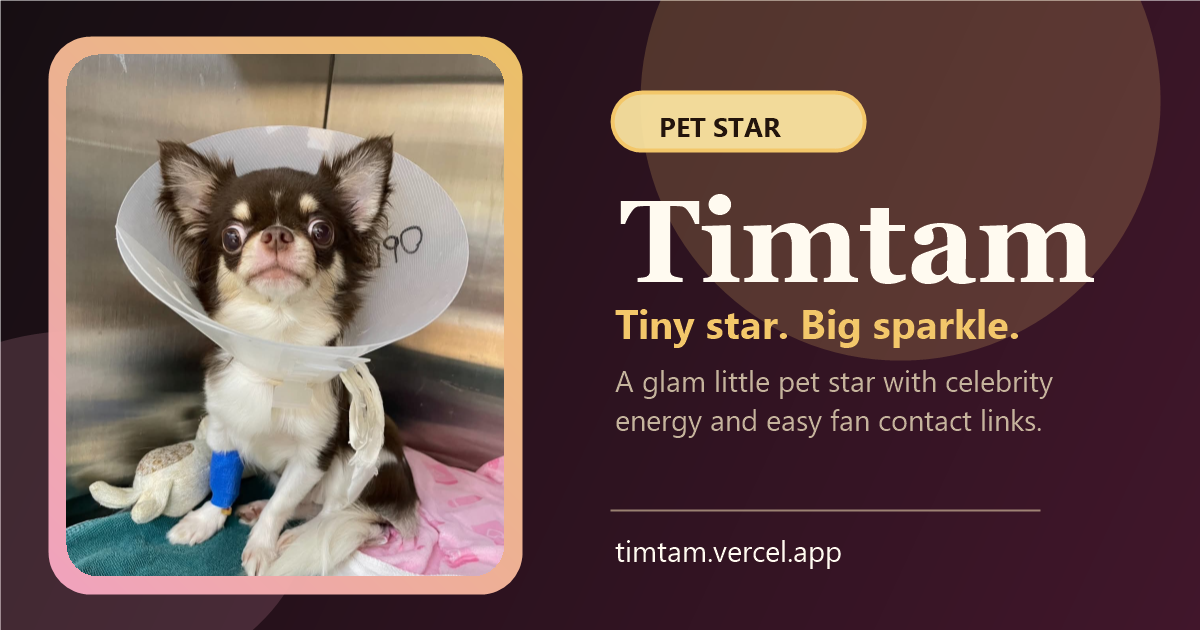
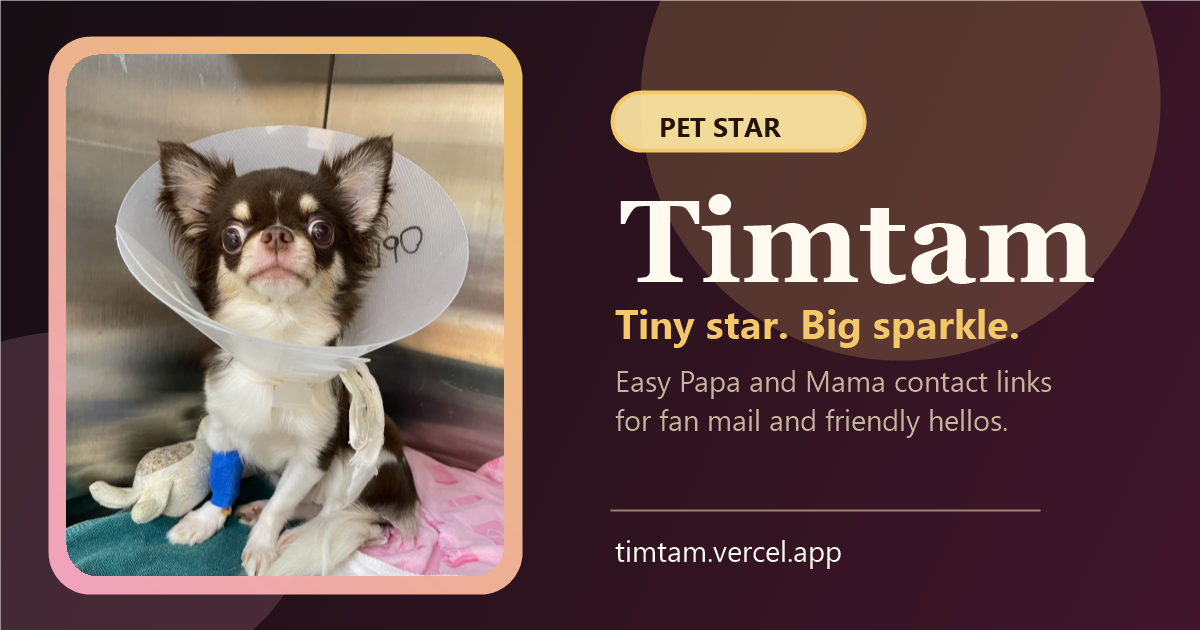
Update contacts to Papa and Mama

Changed region(s): [[0.4933, 0.573, 0.8942, 0.6937]]

diff --git a/index.html b/index.html
@@ -4,21 +4,21 @@
   <meta charset="utf-8">
   <meta name="viewport" content="width=device-width, initial-scale=1">
   <title>Timtam the Pet Star | Cute Glam Pet E-card</title>
-  <meta name="description" content="Meet Timtam, a glam little pet star with celebrity energy, cute photo moments, and easy fan contact links.">
+  <meta name="description" content="Meet Timtam, a glam little pet star with celebrity energy, cute photo moments, and easy Papa and Mama contact links.">
   <link rel="canonical" href="https://timtam.vercel.app/">
   <link rel="icon" type="image/png" href="/favicon.png">
   <link rel="apple-touch-icon" href="/apple-touch-icon.png">
   <meta property="og:type" content="website">
   <meta property="og:url" content="https://timtam.vercel.app/">
   <meta property="og:title" content="Timtam the Pet Star">
-  <meta property="og:description" content="Meet Timtam, a glam little pet star with celebrity energy and easy fan contact links.">
+  <meta property="og:description" content="Meet Timtam, a glam little pet star with celebrity energy and easy Papa and Mama contact links.">
   <meta property="og:image" content="https://timtam.vercel.app/timtam-share-card.png">
   <meta property="og:image:width" content="1200">
   <meta property="og:image:height" content="630">
   <meta property="og:image:alt" content="Timtam the glam pet star e-card preview">
   <meta name="twitter:card" content="summary_large_image">
   <meta name="twitter:title" content="Timtam the Pet Star">
-  <meta name="twitter:description" content="Meet Timtam, a glam little pet star with celebrity energy and easy fan contact links.">
+  <meta name="twitter:description" content="Meet Timtam, a glam little pet star with celebrity energy and easy Papa and Mama contact links.">
   <meta name="twitter:image" content="https://timtam.vercel.app/timtam-share-card.png">
   <script type="application/ld+json">
     {
@@ -26,7 +26,7 @@
       "@type": "WebPage",
       "name": "Timtam the Pet Star",
       "url": "https://timtam.vercel.app/",
-      "description": "Meet Timtam, a glam little pet star with celebrity energy, cute photo moments, and easy fan contact links.",
+      "description": "Meet Timtam, a glam little pet star with celebrity energy, cute photo moments, and easy Papa and Mama contact links.",
       "image": "https://timtam.vercel.app/timtam-share-card.png",
       "about": {
         "@type": "Thing",
@@ -35,7 +35,7 @@
         "image": "https://timtam.vercel.app/timtam-pet-star.jpg",
         "sameAs": [
           "https://www.facebook.com/pornthep.treechorvitaya",
-          "https://www.linkedin.com/in/pornthep-treechorvitaya/"
+          "https://www.facebook.com/tle.title.161"
         ]
       }
     }
@@ -295,7 +295,7 @@
         linear-gradient(145deg, #bfe1ff 0%, #8ec7ff 52%, #f8bfd3 100%);
     }
 
-    .social.linkedin {
+    .social.mama {
       background:
         radial-gradient(circle at 25% 18%, rgba(255, 255, 255, 0.82), transparent 25%),
         linear-gradient(145deg, #bdf2ff 0%, #85d4eb 50%, #ffe3a6 100%);
@@ -401,23 +401,23 @@
       </div>
 
       <nav class="actions" aria-label="Social media links">
-        <a class="social facebook" href="https://www.facebook.com/pornthep.treechorvitaya" target="_blank" rel="noopener noreferrer" aria-label="Say hi to Timtam on Facebook">
+        <a class="social facebook" href="https://www.facebook.com/pornthep.treechorvitaya" target="_blank" rel="noopener noreferrer" aria-label="Contact Timtam's Papa on Facebook">
           <span class="social-icon">
             <svg viewBox="0 0 24 24" aria-hidden="true">
               <path d="M14.1 8.3V6.8c0-.7.5-.9.9-.9h2.2V2.1L14.1 2c-3.5 0-4.3 2.6-4.3 4.3v2H7v4.1h2.8V22h4.3v-9.6H17l.5-4.1h-3.4Z"/>
             </svg>
           </span>
-          <span class="social-name">Facebook</span>
-          <span class="social-note">Fan mail</span>
+          <span class="social-name">Papa</span>
+          <span class="social-note">Facebook</span>
         </a>
-        <a class="social linkedin" href="https://www.linkedin.com/in/pornthep-treechorvitaya/" target="_blank" rel="noopener noreferrer" aria-label="Connect with Timtam's contact on LinkedIn">
+        <a class="social mama" href="https://www.facebook.com/tle.title.161" target="_blank" rel="noopener noreferrer" aria-label="Contact Timtam's Mama on Facebook">
           <span class="social-icon">
             <svg viewBox="0 0 24 24" aria-hidden="true">
               <path d="M6.9 8.7H2.8V22h4.1V8.7ZM4.8 2C3.5 2 2.5 3 2.5 4.2c0 1.3 1 2.3 2.3 2.3S7 5.5 7 4.2C7 3 6 2 4.8 2Zm16.7 12.4c0-3.6-1.9-5.9-5-5.9-2.3 0-3.3 1.3-3.9 2.2h-.1v-2H8.7V22h4.1v-6.6c0-1.8.3-3.5 2.5-3.5 2.1 0 2.1 2 2.1 3.6V22h4.1v-7.6Z"/>
             </svg>
           </span>
-          <span class="social-name">LinkedIn</span>
-          <span class="social-note">Manager contact</span>
+          <span class="social-name">Mama</span>
+          <span class="social-note">Facebook</span>
         </a>
       </nav>
 
@@ -438,7 +438,7 @@
     const shareLabel = document.querySelector("[data-share-label]");
     const shareData = {
       title: "Timtam the Pet Star",
-      text: "Meet Timtam, a glam little pet star with celebrity energy.",
+      text: "Meet Timtam, a glam little pet star with celebrity energy and Papa and Mama contact links.",
       url: "https://timtam.vercel.app/"
     };
 
